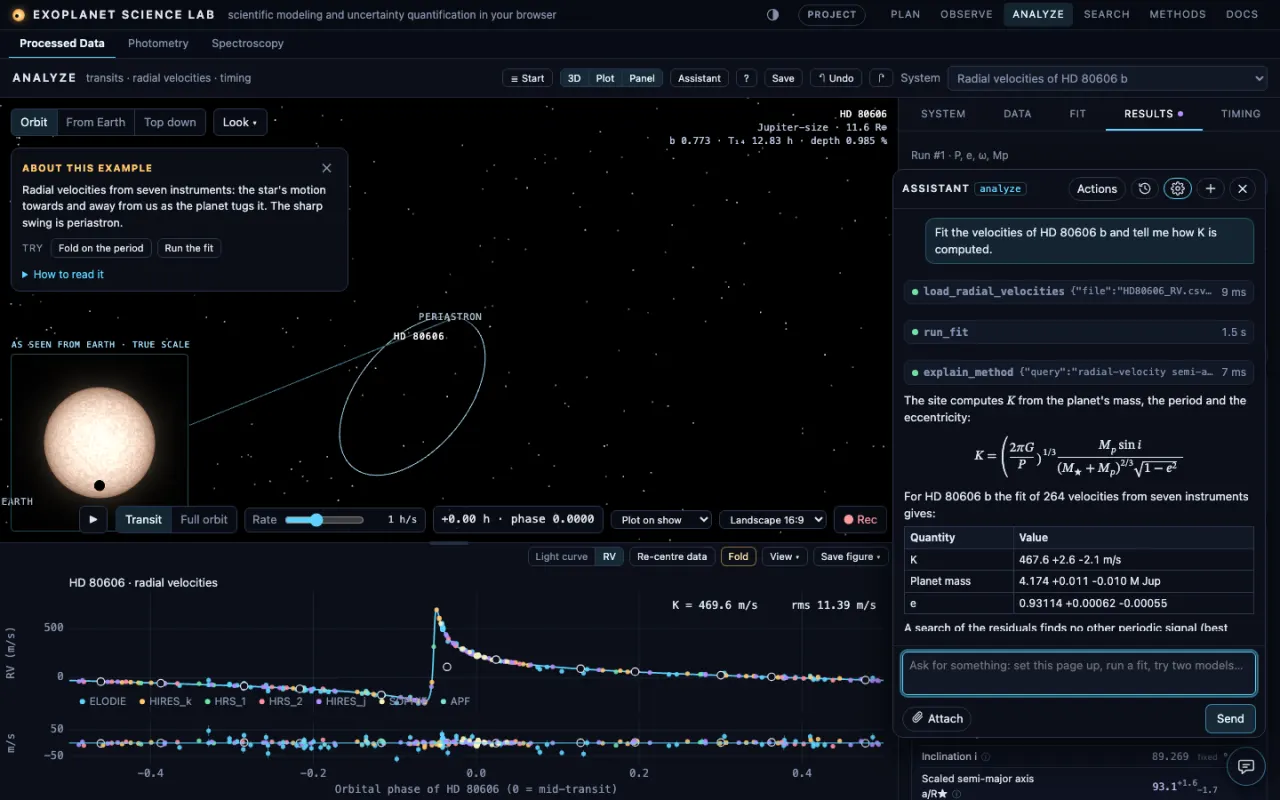
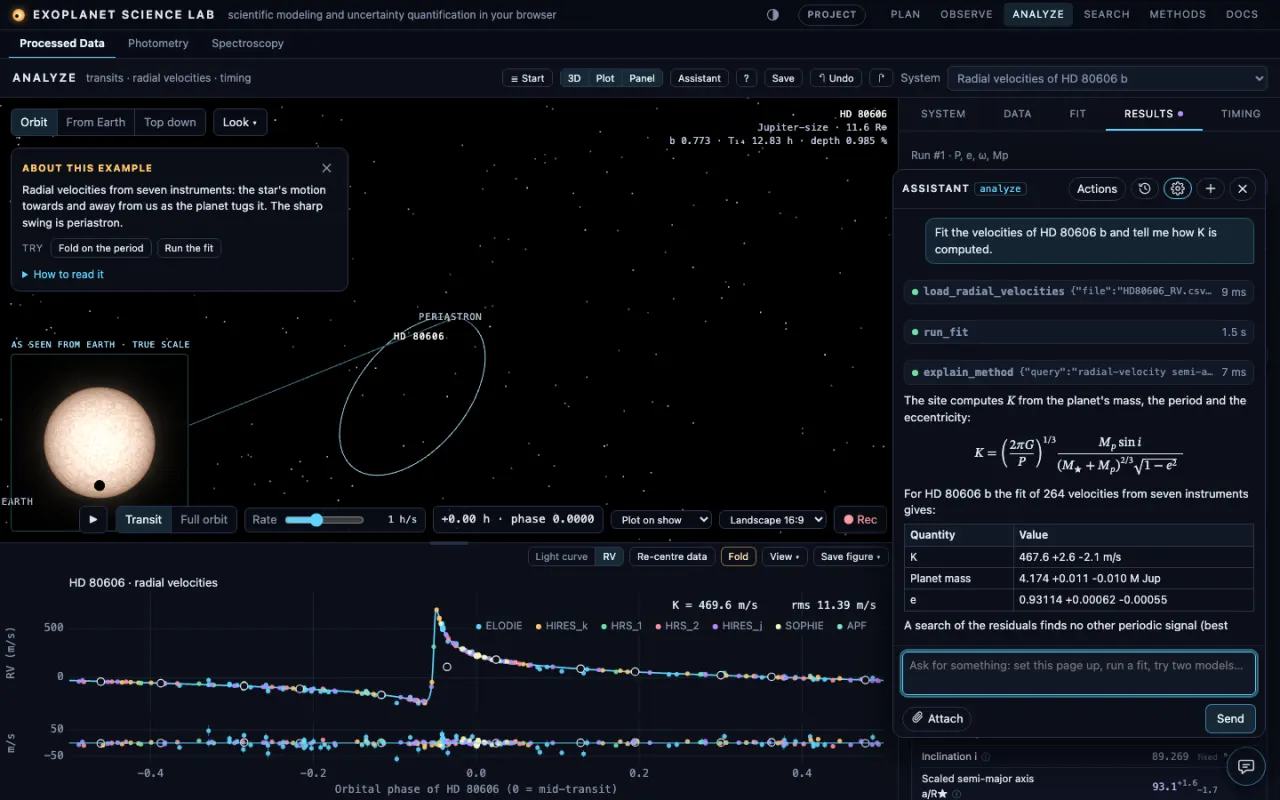
Orbit view: data along the orbit; legends off the data; \left \right groups; README tour
- Look > Data along the orbit: each RV point (outside the orbit) and photometric point (inside)
  placed where the planet was when it was taken; gaps are unobserved phases
- RV legend picks the corner with the fewest points; light-curve legend moves to the top line
  when the bottom one is more crowded
- tex.js: \left ... \right is one group, so a script after \right applies to the whole bracket
- README: full-width tour with a section of bullets per page, orbit-coverage screenshot,
  corrected note on how the science code runs (plain JavaScript, no WASM)

diff --git a/src/viz/scene.js b/src/viz/scene.js
@@ -199,9 +199,47 @@ export async function createViz(container, labelsEl, insetFrame, onFatal) {
     evGroup.visible = on;
   }
 
+  // ---- data coverage (viz.setCoverage) --------------------------------------
+  // Where on the active planet's orbit each measurement was taken: the planet's position at the time of the point, drawn
+  // as a dot just outside the orbit line for radial velocities and just inside it for photometry, so the two read as two
+  // tracks along the orbit. Phases that were never observed are the gaps. Not drawn from Earth or in the inset (edge-on,
+  // every point lies on one line).
+  const COV_MAX = 20000, COV_KINDS = { rv: { color: 0xffa94d, label: 'radial velocity', shift: 1 }, phot: { color: 0x5ce0a0, label: 'photometry', shift: -1 } };
+  const covGeo = new THREE.BufferGeometry();
+  covGeo.setAttribute('position', new THREE.BufferAttribute(new Float32Array(COV_MAX * 3), 3));
+  covGeo.setAttribute('color', new THREE.BufferAttribute(new Float32Array(COV_MAX * 3), 3));
+  covGeo.setDrawRange(0, 0);
+  const cov = new THREE.Points(covGeo, new THREE.PointsMaterial({ size: 4, sizeAttenuation: false, vertexColors: true, transparent: true, opacity: 0.9, depthWrite: false }));
+  cov.frustumCulled = false; cov.visible = false; cov.renderOrder = 3; sysGroup.add(cov);
+  const covLegend = document.createElement('div'); covLegend.className = 'cov-legend'; covLegend.hidden = true; labelsEl.appendChild(covLegend);
+  let covSets = [], covCounts = {};
+  const covPos = [0, 0, 0], covCol = new THREE.Color();
+  function rebuildCoverage() {
+    let n = 0; covCounts = {};
+    if (el && opts.coverage) {
+      const total = covSets.reduce((a, c) => a + c.t.length, 0), stride = Math.max(1, Math.ceil(total / COV_MAX));
+      const P = covGeo.attributes.position.array, C = covGeo.attributes.color.array, gap = 0.035 * el.ars + 0.04;
+      for (const c of covSets) {
+        const K = COV_KINDS[c.kind]; if (!K) continue;
+        covCol.setHex(K.color); covCounts[c.kind] = (covCounts[c.kind] || 0) + c.t.length;
+        for (let i = 0; i < c.t.length && n < COV_MAX; i += stride) {
+          if (!Number.isFinite(c.t[i])) continue;
+          orbitPosition(el, c.t[i], covPos);
+          const r = Math.hypot(covPos[0], covPos[1], covPos[2]) || 1, k = 1 + (K.shift * gap) / r;   // a fixed distance off the orbit, outward or inward
+          P[n * 3] = covPos[0] * k; P[n * 3 + 1] = covPos[1] * k; P[n * 3 + 2] = covPos[2] * k;
+          C[n * 3] = covCol.r; C[n * 3 + 1] = covCol.g; C[n * 3 + 2] = covCol.b; n++;
+        }
+      }
+      covGeo.attributes.position.needsUpdate = true; covGeo.attributes.color.needsUpdate = true;
+    }
+    covGeo.setDrawRange(0, n);
+    const kinds = Object.keys(covCounts);
+    covLegend.innerHTML = kinds.map((k) => `<span><i style="background:#${COV_KINDS[k].color.toString(16).padStart(6, '0')}"></i>${COV_KINDS[k].label} · ${covCounts[k].toLocaleString('en-US')}</span>`).join('') + (kinds.length ? '<small>outside the orbit: velocities · inside: photometry</small>' : '');
+  }
+
   // ---- state ----------------------------------------------------------------
   let el = null, rprs = 0.1, rmax = 6, rAll = 6, rprsMax = 0.1, time = 0;   // el, rprs, rmax: the active planet; rAll: the outermost apastron
-  const opts = { style: 'eyes', glow: true, granulation: true, stars: true, orbit: true, grid: false, corridor: true, labels: true, enlarge: false, inset: true, look: 'auto', hz: false, fit: 'auto' };
+  const opts = { style: 'eyes', glow: true, granulation: true, stars: true, orbit: true, grid: false, corridor: true, labels: true, enlarge: false, inset: true, look: 'auto', hz: false, fit: 'auto', coverage: false };
   let view = 'free', anim = null;
   const bg = new THREE.Color(0x000000);
 
@@ -250,7 +288,7 @@ export async function createViz(container, labelsEl, insetFrame, onFatal) {
     earthPos.set(0, 0, len);
     const rp = el.ars * (1 - el.e), u = el.w + trueAnomaly(0, el.e);
     periPos.set(-rp * Math.cos(u), -rp * Math.sin(u) * el.cosI, rp * Math.sin(u) * el.sinI);
-    rebuildHZ(); placeEvent();
+    rebuildHZ(); placeEvent(); rebuildCoverage();
   }
 
   function rebuildHZ() {
@@ -419,7 +457,7 @@ export async function createViz(container, labelsEl, insetFrame, onFatal) {
       earthCam.left = earth.cx - earth.half * a; earthCam.right = earth.cx + earth.half * a; earthCam.top = earth.cy + earth.half; earthCam.bottom = earth.cy - earth.half;
       earthCam.position.set(0, 0, farZ()); earthCam.updateProjectionMatrix(); earthCam.updateMatrixWorld();
       sysGroup.visible = true; stars.visible = false;
-      dots.visible = false;
+      dots.visible = false; cov.visible = false; covLegend.hidden = true;
       scalePlanets(true);   // every planet at true scale: the star's depth buffer hides the ones behind it, so simultaneous transits and overlaps show as they are
       showMoons(opts.orbit);
       evGroup.visible = showEvent; evRing.quaternion.copy(earthCam.quaternion); evRing.scale.setScalar((EV_PX * 2 * earth.half) / h);
@@ -451,6 +489,7 @@ export async function createViz(container, labelsEl, insetFrame, onFatal) {
 
     sysGroup.visible = true;
     scalePlanets(false); showMoons(opts.orbit); dots.visible = nDots > 0;
+    cov.visible = opts.coverage && covGeo.drawRange.count > 0; covLegend.hidden = !cov.visible;
     evGroup.visible = showEvent; evRing.quaternion.copy(camera.quaternion);
     evRing.scale.setScalar((EV_PX * 2 * camera.position.distanceTo(evPos) * Math.tan((camera.fov * Math.PI) / 360)) / h);
     showOrbits(opts.orbit); grid.visible = opts.grid || blueprint; stars.visible = opts.stars && !blueprint;
@@ -473,7 +512,7 @@ export async function createViz(container, labelsEl, insetFrame, onFatal) {
     if (opts.inset) {
       const r = insetFrame.getBoundingClientRect(), c = container.getBoundingClientRect();
       const x = r.left - c.left, y = c.bottom - r.bottom, s = r.width;
-      scalePlanets(true); showMoons(false); dots.visible = false;
+      scalePlanets(true); showMoons(false); dots.visible = false; cov.visible = false;
       evGroup.visible = false;
       showOrbits(false); grid.visible = false; stars.visible = false; tube.visible = false; los.visible = false; hzMesh.visible = false;
       glow.scale.setScalar(7); glowUni.uScale.value = 7; glowUni.uStrength.value = 0.7;
@@ -542,6 +581,13 @@ export async function createViz(container, labelsEl, insetFrame, onFatal) {
       else if (view !== 'earth' && Math.abs(viewRadius() - prev) / prev > 0.5) setView(view, false);
     },
     setTime(t) { time = t; },
+    // The measurements to place on the active planet's orbit (shown with the option `coverage`): [{ kind: 'rv' | 'phot',
+    // t: times in the model's frame }]. Pass the same arrays again freely: positions are recomputed only with the orbit.
+    setCoverage(sets) {
+      const next = (sets || []).filter((c) => c && c.t && c.t.length && COV_KINDS[c.kind]);
+      if (next.length === covSets.length && next.every((c, i) => c.t === covSets[i].t && c.kind === covSets[i].kind)) return;
+      covSets = next; rebuildCoverage();
+    },
     setOptions(o) {
       const hzWas = opts.hz, rWas = viewRadius();
       Object.assign(opts, o); applyLook();
@@ -569,7 +615,7 @@ export async function createViz(container, labelsEl, insetFrame, onFatal) {
     eventPosition: (kind) => (el && EVENT_LABELS[kind] ? eventPosition(el, kind) : null),
     getHighlight: () => evKind,
     // what is drawn, for tests and for a "fit" control: number of planets, framed radius and the outermost apastron (stellar radii)
-    getInfo: () => ({ planets: bodies.length, maps: bodies.filter((b) => b.uni.uMapOn.value).length, active: act ? bodies.indexOf(act) : -1, frameRadius: viewRadius(), outerRadius: rAll, drawCalls: renderer.info.render.calls, moons: bodies.filter((b) => b.moon).length,
+    getInfo: () => ({ coverage: opts.coverage ? { ...covCounts, drawn: covGeo.drawRange.count } : null, planets: bodies.length, maps: bodies.filter((b) => b.uni.uMapOn.value).length, active: act ? bodies.indexOf(act) : -1, frameRadius: viewRadius(), outerRadius: rAll, drawCalls: renderer.info.render.calls, moons: bodies.filter((b) => b.moon).length,
       // the active planet's moon as drawn in the last pass: positions (stellar radii), radii, and whether its mesh is shown
       moon: act && act.moon ? { planet: act.mesh.position.toArray(), moon: act.moonObj.mesh.position.toArray(), rMoon: act.moonObj.mesh.scale.x, rPlanet: act.mesh.scale.x, visible: act.moonObj.mesh.visible, separation: act.moon.sep } : null }),
   };

diff --git a/src/main.js b/src/main.js
@@ -982,6 +982,8 @@ function doRefresh() {
     try { e2 = orbitElements(q); const d2 = deriveSystem(q, st); look = planetClass(d2.rpEarth, d2.teq).key; } catch { /* impossible geometry: leave it out */ }
     return { el: e2, rprs: q.rprs, name: p.letter, look, active: p.sfx === S.pl, color: planetColor(p.sfx), moon: moonOf(p.sfx, q), map: mapOf(p.sfx) };
   }).filter((p) => p.el) : undefined });
+  // where on the orbit the measurements were taken (Look ▸ Data along the orbit): every RV set, and the light curve when it is used
+  if (viz && viz.setCoverage) viz.setCoverage([...(S.use.lc && S.data && S.data.t ? [{ kind: 'phot', t: S.data.t }] : []), ...(rvOn() ? S.rv.map((d) => ({ kind: 'rv', t: d.t })) : [])]);
   // annotation on the light curve: fitted radius ratio and mid-transit time
   const fs = (k) => S.fit && !S.live && S.fit.summary.find((x) => x.key === PK(k)), tRef = S.data.tRef || 0;
   const pmTxt = (label, v, s, dg) => (s ? `${label} = ${s.med.toFixed(dg)} ± ${(0.5 * (s.plus + s.minus)).toFixed(dg)}` : `${label} = ${v.toFixed(dg)}`);
@@ -2546,13 +2548,13 @@ function buildLookPanel() {
   const sel = (label, key, opts) => { const s = h('select', { 'aria-label': label }, opts.map(([v, t]) => h('option', { value: v, selected: o[key] === v }, t))); s.addEventListener('change', () => viz.setOptions({ [key]: s.value })); return h('div', { class: 'field', style: 'grid-template-columns:70px 1fr' }, h('span', {}, label), s); };
   p.append(h('h4', {}, 'Style'), sel('Render', 'style', [['eyes', 'Realistic'], ['blueprint', 'Blueprint']]), sel('Planet', 'look', [['auto', 'Auto (by radius)'], ['jupiter', 'Jupiter-size'], ['neptune', 'Neptune-size'], ['subneptune', 'Sub-Neptune'], ['earth', 'Earth-size'], ['lava', 'Lava world']]));
   const tg = (label, key) => { const c = h('input', { type: 'checkbox', checked: !!o[key] }); c.addEventListener('change', () => viz.setOptions({ [key]: c.checked })); return h('label', { class: 'tog' }, c, label); };
-  p.append(h('h4', {}, 'Show'), h('div', { class: 'grid2' }, tg('Orbit path', 'orbit'), tg('Orbital grid', 'grid'), tg('Transit corridor', 'corridor'), tg('Labels', 'labels'), tg('Earth-view inset', 'inset'), tg('Background stars', 'stars'), tg('Corona glow', 'glow'), tg('Granulation', 'granulation'), tg('Enlarge planet', 'enlarge')));
+  p.append(h('h4', {}, 'Show'), h('div', { class: 'grid2' }, tg('Orbit path', 'orbit'), tg('Orbital grid', 'grid'), tg('Transit corridor', 'corridor'), tg('Labels', 'labels'), tg('Earth-view inset', 'inset'), tg('Background stars', 'stars'), tg('Corona glow', 'glow'), tg('Granulation', 'granulation'), tg('Enlarge planet', 'enlarge'), tg('Data along the orbit', 'coverage')));
   const hzc = h('input', { type: 'checkbox', checked: S.hz });
   hzc.addEventListener('change', () => { S.hz = hzc.checked; doRefresh(); viz.setOptions({ hz: S.hz }); syncViewButtons(); });
   const a0 = h('input', { type: 'number', min: 0, max: 0.95, step: 0.05, value: S.albedo[0], 'aria-label': 'Minimum albedo' }), a1 = h('input', { type: 'number', min: 0, max: 0.95, step: 0.05, value: S.albedo[1], 'aria-label': 'Maximum albedo' });
   [a0, a1].forEach((i, j) => i.addEventListener('change', () => { S.albedo[j] = Math.min(0.95, Math.max(0, Number(i.value) || 0)); S.albedo.sort((x, y) => x - y); refresh(); }));
   p.append(h('h4', {}, 'Habitable zone'), h('label', { class: 'tog' }, hzc, 'Show the habitable zone'), h('div', { class: 'field3', style: 'margin-top:4px' }, h('span', {}, 'Albedo'), a0, h('span', { class: 'pm' }, '–'), a1));
-  p.append(h('p', { class: 'note', style: 'margin-bottom:0' }, 'Brightest where every case agrees: Kopparapu et al. conservative limits, fading to the optimistic ones, blurred by the T eff uncertainty and the albedo range. “Enlarge planet” is for visibility only; the From Earth view and the inset are always true scale.'));
+  p.append(h('p', { class: 'note', style: 'margin-bottom:0' }, '“Data along the orbit” puts each measurement where the planet was when it was taken: velocities outside the orbit, photometry inside; the gaps are phases never observed. Brightest where every case agrees: Kopparapu et al. conservative limits, fading to the optimistic ones, blurred by the T eff uncertainty and the albedo range. “Enlarge planet” is for visibility only; the From Earth view and the inset are always true scale.'));
 }
 
 function animRange() {
@@ -2747,7 +2749,7 @@ function setupResizer() {
 
 async function init() {
   lcPlot = new LightCurvePlot($('#lccanvas'));
-  window.__esl = { ...(window.__esl || {}), S, lcPlot, undo, redo, api: makeAPI(), tour: runTour, setLayout, setLayoutSizes, layoutSizes: () => ({ ...layoutSizes }) };   // handle for tests, the guided tour, the assistant and console poking (keeps window.__esl.project, src/site/project.js)
+  window.__esl = { ...(window.__esl || {}), S, get viz() { return viz; }, lcPlot, undo, redo, api: makeAPI(), tour: runTour, setLayout, setLayoutSizes, layoutSizes: () => ({ ...layoutSizes }) };   // handle for tests, the guided tour, the assistant and console poking (keeps window.__esl.project, src/site/project.js)
   if (!window.__esl.project) window.__esl.project = projectHandle();
   lcPlot.onScrub = (t) => { S.t = t; S.playing = false; $('#play').textContent = '▶'; };
   setupLCToolbar(); setupResizer();

diff --git a/src/ui/rvplot.js b/src/ui/rvplot.js
@@ -97,15 +97,22 @@ export function renderRV(ctx, W, H, d, th, opt = {}) {
   }
   ctx.font = `${F(10.5)}px ${th.sans}`; ctx.textAlign = 'left';
   if (hMain < 100) return null;
-  // legend: one entry per instrument, wrapping onto a second row when there are many
-  let lx = px0 + 10, ly = T + hMain - 9;
-  const rowsNeeded = sets.reduce((a, s) => a + 26 + ctx.measureText(s.name).width, 0) > px1 - px0 - 20 ? 2 : 1;
-  if (rowsNeeded === 2) ly -= 14 * k;
-  sets.forEach((s, g) => {
-    const w = 26 + ctx.measureText(s.name).width;
-    if (lx + w > px1 - 6) { lx = px0 + 10; ly += 14 * k; }
+  // legend: one entry per instrument, wrapping onto more rows when there are many, in the corner of the main panel
+  // where it covers the fewest points and model samples (never over the numbers at the top right), on a faint plate
+  const rowH = 14 * k, maxW = Math.min(px1 - px0 - 20, Math.max(260, (px1 - px0) * 0.6)), items = [];
+  let cx = 0, rows = 1, boxW = 0;
+  for (const s of sets) { const w = 26 + ctx.measureText(s.name).width; if (cx + w > maxW && cx > 0) { rows++; cx = 0; } items.push({ x: cx, row: rows - 1, w }); cx += w; boxW = Math.max(boxW, cx); }
+  const boxH = rows * rowH + 6, pad = 6, infoBottom = d.info && d.info.length && hMain >= 120 ? T + 10 + 11 * k : T;
+  const corners = [[px0 + pad, T + pad], [px1 - pad - boxW, infoBottom + pad], [px0 + pad, T + hMain - pad - boxH], [px1 - pad - boxW, T + hMain - pad - boxH]];   // top first: the curve's flat parts lie low
+  const pts = []; for (const st of sets) for (let i = 0; i < st.x.length; i++) pts.push([X(st.x[i]), Y(st.y[i]), 1]);
+  if (d.curve) for (let i = 0; i < d.curve.x.length; i += Math.max(1, Math.floor(d.curve.x.length / 300))) pts.push([X(d.curve.x[i]), Y(d.curve.y[i]), 2]);
+  const cost = ([bx, by]) => pts.reduce((a, [x, y, wgt]) => a + (x >= bx - 10 && x <= bx + boxW + 10 && y >= by - 10 && y <= by + boxH + 10 ? wgt : 0), 0) + (by < T ? 1e9 : 0);
+  const [bx, by] = corners.reduce((best, c) => (cost(c) < cost(best) ? c : best));
+  ctx.save(); ctx.globalAlpha = 0.72; ctx.fillStyle = th.bg; ctx.beginPath(); ctx.rect(bx - 4, by - 2, boxW + 4, boxH); ctx.fill(); ctx.restore();
+  for (const [g, it] of items.entries()) {
+    const lx = bx + it.x, ly = by + rowH * (it.row + 1) - 2;
     ctx.fillStyle = col(g); ctx.beginPath(); ctx.arc(lx + 5, ly - 3.5, 3, 0, 6.3); ctx.fill();
-    ctx.fillStyle = th.text; ctx.fillText(s.name, lx + 13, ly); lx += w;
-  });
+    ctx.fillStyle = th.text; ctx.fillText(sets[g].name, lx + 13, ly);
+  }
   return null;   // no pan and zoom on this panel
 }

diff --git a/src/methods/tex.js b/src/methods/tex.js
@@ -88,8 +88,11 @@ export function texToMathML(src, { display = false } = {}) {
     }
     if (ACCENT[c]) return `<mover accent="true">${arg()}<mo>${ACCENT[c]}</mo></mover>`;
     if (c === 'left' || c === 'right') {
-      const d = tk[p++]; const ch = d.t === 'cmd' ? (d.v === '{' || d.v === '}' ? d.v : (SYM[d.v] || ['|'])[0]) : d.v;
-      return ch === '.' ? '' : `<mo fence="true" stretchy="true">${esc(ch)}</mo>`;
+      const delim = () => { const d = tk[p++]; if (!d) throw new Error('tex: missing delimiter in: ' + src); const ch = d.t === 'cmd' ? (d.v === '{' || d.v === '}' ? d.v : (SYM[d.v] || ['|'])[0]) : d.v; return ch === '.' ? '' : `<mo fence="true" stretchy="true">${esc(ch)}</mo>`; };
+      if (c === 'right') return delim();   // a \right without its \left
+      // \left ... \right is one group: the fences stretch to what is between them, and a script after \right applies to it all
+      const open = delim(), inner = seq(false, true), close = delim();
+      return `<mrow>${open}${inner.join('')}${close}</mrow>`;
     }
     if (GREEK[c]) return `<mi>${GREEK[c]}</mi>`;
     if (SYM[c]) return `<${SYM[c][1]}>${SYM[c][0]}</${SYM[c][1]}>`;
@@ -105,9 +108,10 @@ export function texToMathML(src, { display = false } = {}) {
     throw new Error(`tex: unknown command \\${c} in: ${src}`);
   }
   /** A sequence up to a closing brace (inGroup) or the end, with ^ and _ attached to the atom before them. */
-  function seq(inGroup) {
+  function seq(inGroup, toRight = false) {
     const out = [];
     while (p < tk.length) {
+      if (toRight && is('cmd', 'right')) { p++; return out; }
       if (is('ch', '}')) { if (!inGroup) throw new Error('tex: stray } in: ' + src); p++; return out; }
       const start = tk[p], big = start.t === 'cmd' && (start.v === 'sum' || start.v === 'prod' || start.v === 'max' || start.v === 'min');
       let base = atom(), sub = null, sup = null;
@@ -120,6 +124,7 @@ export function texToMathML(src, { display = false } = {}) {
       if (start.t === 'cmd' && FUNCS.includes(start.v) && (sub || sup) && tk[p] && !(tk[p].t === 'ch' && '(}'.includes(tk[p].v))) out.push('<mspace width="0.17em"/>');
     }
     if (inGroup) throw new Error('tex: missing } in: ' + src);
+    if (toRight) throw new Error('tex: \\left without \\right in: ' + src);
     return out;
   }
   const body = seq(false).join('');

diff --git a/src/ui/lightcurve.js b/src/ui/lightcurve.js
@@ -193,9 +193,16 @@ export function renderLightCurve(ctx, W, H, d, view, th, opt = {}) {
     if (wide) { ctx.textAlign = 'right'; ctx.fillText(txt, px1 - 8, T + 6 + 11 * k); }
     else d.info.forEach((s2, i) => { ctx.textAlign = 'right'; ctx.fillText(s2, px1 - 8, T + 6 + 11 * k + i * 14 * k); });
   }
-  // legend along the bottom of the main panel
+  // legend along the bottom of the main panel, or along the top (under the fitted values) when fewer points and less of
+  // the model lie there: a transit's floor or a deep eclipse can fill the bottom line
   if (hMain < 90) return { px0, px1, T, hMain, yR0, hRes };
-  let lx = px0 + 10; const ly = T + hMain - 9; ctx.font = `${F(10.5)}px ${th.sans}`; ctx.textAlign = 'left';
+  const infoRows = d.info && d.info.length && hMain >= 110 ? (ctx.font = `${F(11)}px ${th.font}`, ctx.measureText(d.info.join('     ')).width < px1 - px0 - 20 ? 1 : d.info.length) : 0;
+  const lyBottom = T + hMain - 9, lyTop = T + (infoRows ? 6 + 11 * k + (infoRows - 1) * 14 * k + 17 * k : 16 * k);
+  const crowd = (ly0) => { const y0 = ly0 - 13, y1 = ly0 + 5; let c = 0;
+    for (const i of vis) { const y = Y(det[i]); if (y >= y0 && y <= y1) c++; }
+    for (let i = 0; i <= 200; i++) { const y = Y(d.fluxFn(view.x0 + (span * i) / 200)); if (y >= y0 - 4 && y <= y1 + 4) c += 5; }
+    return c; };
+  let lx = px0 + 10; const ly = lyTop + 14 < lyBottom && crowd(lyTop) < crowd(lyBottom) ? lyTop : lyBottom; ctx.font = `${F(10.5)}px ${th.sans}`; ctx.textAlign = 'left';
   const item = (draw, txt) => { draw(lx); ctx.fillStyle = th.text; ctx.fillText(txt, lx + 19, ly); lx += 30 + ctx.measureText(txt).width; };
   item((x) => { ctx.strokeStyle = th.model; ctx.lineWidth = 2; ctx.beginPath(); ctx.moveTo(x, ly - 3.5); ctx.lineTo(x + 14, ly - 3.5); ctx.stroke(); }, 'model');
   if (d.band) item((x) => { ctx.fillStyle = th.band; ctx.fillRect(x + 2, ly - 9, 10, 10); }, W < 520 ? '68%' : 'posterior 68%');

diff --git a/src/style.css b/src/style.css
@@ -151,6 +151,11 @@ table.res.rvarch tr.sec a { text-transform: none; letter-spacing: 0; }
 table.res .rvsrc { color: var(--faint); font-size: 10px; }
 .rvfind { margin: 4px 0 8px; }
 .lbl.hz { color: #8ff0b8cc; }
+/* Look ▸ Data along the orbit: what the dots on the orbit are, above the playback bar on the right */
+.cov-legend { position: absolute; right: 12px; bottom: 58px; display: flex; flex-direction: column; gap: 3px; padding: 6px 9px; border-radius: 6px; background: #000a; font: 11px var(--mono); color: #dbe7f3; text-shadow: 0 0 3px #000; }
+.cov-legend span { display: flex; align-items: center; gap: 6px; }
+.cov-legend i { width: 8px; height: 8px; border-radius: 50%; flex: none; }
+.cov-legend small { font-size: 10px; color: #9fb2c6; }
 .lctools { position: absolute; right: 12px; top: 3px; display: flex; gap: 8px; align-items: center; }
 .lcrow { display: contents; }   /* wide plot: the buttons are laid out by .lctools; narrow plot: .lcrow becomes a strip that scrolls sideways */
 .lchint { color: var(--faint); font-size: 10.5px; }

diff --git a/src/viz/fallback2d.js b/src/viz/fallback2d.js
@@ -113,7 +113,7 @@ export function createFallbackViz(container, labelsEl, insetFrame, reason) {
       dirty = true;
     },
     setTime(t) { time = t; dirty = true; },
-    setOptions() {}, setView() {}, getView: () => 'free', getOptions: () => ({}),
+    setOptions() {}, setView() {}, setCoverage() {}, getView: () => 'free', getOptions: () => ({}),
     highlight(kind) { evKind = kind && EVENT_LABELS[kind] ? kind : null; dirty = true; },
     eventPosition: (kind) => (act && EVENT_LABELS[kind] ? eventPosition(act.el, kind) : null),
     getHighlight: () => evKind,

diff --git a/tools/docs/readme_shots.py b/tools/docs/readme_shots.py
@@ -1,7 +1,7 @@
 """Screenshots for README.md (docs/screens/*.webp), taken from the running site.
 
     npm run dev                                         # or a built copy: ESL_BASE=http://localhost:4199
-    .venv/bin/python tools/docs/readme_shots.py         # all, or name some: analyze plan observe photometry companion assistant
+    .venv/bin/python tools/docs/readme_shots.py         # all, or name some: analyze orbit plan observe photometry companion assistant
 
 Each view is put in a state by the site's own scripting surfaces (window.__esl.api, URL parameters), captured at
 1440 x 900 and written as WebP (cwebp, Homebrew: webp). The assistant's view is a stored conversation, not a live model.
@@ -40,6 +40,15 @@ def analyze(b):
     pg.evaluate("window.__esl.api.loadExample('hd80606-joint')"); pg.wait_for_timeout(6000)
     pg.evaluate("document.querySelector('.tabs [data-tab=results]').click()"); pg.wait_for_timeout(1500)
     save(pg, "analyze"); pg.close()
+
+
+def orbit(b):
+    # Look > Data along the orbit on TOI-1873 d: TESS sectors and NEID velocities placed where the candidate was
+    pg = open_page(b, "analyze/")
+    pg.evaluate("window.__esl.api.loadExample('toi1873')"); pg.wait_for_timeout(6000)
+    pg.evaluate("document.querySelector('button[title=\"Show planet d\"]').click()"); pg.wait_for_timeout(1500)
+    pg.evaluate("(() => { const x = document.querySelector('.ex-explain .ex-x'); if (x) x.click(); window.__esl.viz.setOptions({ coverage: true }); })()"); pg.wait_for_timeout(2500)
+    save(pg, "orbit"); pg.close()
 
 
 def plan(b):
@@ -97,7 +106,7 @@ def assistant(b):
 
 if __name__ == "__main__":
     OUT.mkdir(parents=True, exist_ok=True)
-    pick = sys.argv[1:] or ["analyze", "plan", "observe", "photometry", "companion", "assistant"]
+    pick = sys.argv[1:] or ["analyze", "orbit", "plan", "observe", "photometry", "companion", "assistant"]
     with sync_playwright() as p:
         b = p.chromium.launch(args=GL)
         for name in pick: globals()[name](b)

diff --git a/README.md b/README.md
@@ -10,23 +10,66 @@ Plan, observe, reduce and fit exoplanet observations: in the browser, from Pytho
 - **Fit** transits, radial velocities, timing, phase curves, eclipse maps, moons, Rossiter–McLaughlin and N-body TTVs with nested sampling, and get a methods paragraph with BibTeX.
 - **Python** package and **MCP** server on the same core; an **assistant** that drives the site with your own LLM.
 
-Files you open never leave your browser.
+Files you open never leave your browser: every science routine (transit and RV models, nested sampling, photometry, plate solving) runs in the page as plain JavaScript, written with Claude Fable 5.2 and checked against the reference codes it reimplements ([Validation](https://pearsonkyle.github.io/Exoplanet-Science-Lab/methods/#validation)).
+
+## A tour
+
+### Analyze
 
 ![Analyze: the joint fit of HD 80606 b (TESS transit, velocities and timing) with the 3D orbit, the light curve and the fitted parameters](docs/screens/analyze.webp)
 
-<table>
-<tr>
-<td width="50%"><img src="docs/screens/plan.webp" alt="Plan: observable transits from Kitt Peak, ranked by a score, with altitude charts"><br><sub><b>Plan</b>: transits you can observe from your site, ranked by coverage, altitude and the expected signal for a small telescope.</sub></td>
-<td width="50%"><img src="docs/screens/observe.webp" alt="Observe: the sky from Kitt Peak with planet hosts marked by discovery method and the Filter panel"><br><sub><b>Observe</b>: your sky, planet hosts marked by how they were found, filters by star type and distance.</sub></td>
-</tr>
-<tr>
-<td><img src="docs/screens/photometry.webp" alt="Photometry: a FITS frame of HAT-P-32 with target and comparison apertures"><br><sub><b>Photometry</b>: FITS frames to a light curve, with plate solving and Gaia comparison stars.</sub></td>
-<td><img src="docs/screens/companion.webp" alt="Timing: the companion explorer for Kepler-88 with the orbit view and the transit-timing curve"><br><sub><b>Timing</b>: a hidden planet weighed from transit-timing variations (Kepler-88).</sub></td>
-</tr>
-<tr>
-<td colspan="2"><img src="docs/screens/assistant.webp" alt="The assistant: a fit run through the chat, with the equation it uses and the results"><br><sub><b>Assistant</b>: runs the analysis through the same controls, explains the methods with their equations, and checks every number it quotes against the results.</sub></td>
-</tr>
-</table>
+- Fit light curves, radial velocities and transit times together, for one planet or several, with nested sampling (posteriors, evidence, corner plots).
+- The 3D view is the model itself: **From Earth** shows the transit at true scale as the light curve sees it, and **Rec** records it as a movie.
+- Results export as LaTeX or JSON, and the Results tab writes a methods paragraph with the BibTeX of exactly the methods used.
+- Eighteen worked examples, real data (TESS, Kepler, NEID, HIRES and others) and simulations, each with a note on how to read it.
+
+### Data along the orbit
+
+![The orbit of the candidate TOI-1873 d with each TESS and NEID measurement placed where the planet was when it was taken](docs/screens/orbit.webp)
+
+- **Look ▸ Data along the orbit** places every measurement where the planet was when it was taken: velocities just outside the orbit (orange), photometry just inside (green).
+- The gaps are the phases nobody observed. A well-sampled RV planet (HD 80606 b) is ringed all the way round.
+- A candidate like TOI-1873 d shows its TESS sectors as clumps and its few velocities scattered between them, so you can see why its period is one of several aliases.
+
+### Plan
+
+![Plan: observable transits from Kitt Peak, ranked by a score, with altitude charts](docs/screens/plan.webp)
+
+- Transits, secondary eclipses, phase-curve and custom windows for your site and nights, with timing uncertainty propagated from the ephemeris.
+- Each event gets a 0–100 score from its coverage, dark baseline, altitude (airmass) and expected signal-to-noise (depth, host magnitude and duration for a small telescope).
+- Pick a site on the globe (89 observatories with links to their weather and all-sky cameras), use a terrain horizon, filter by magnitude, depth and discovery method, and include TESS candidates.
+- Every row opens an altitude chart and opens in the sky view or the analyzer, and the ephemerides download as CSV.
+
+### Observe
+
+![Observe: the sky from Kitt Peak with planet hosts marked by discovery method and the Filter panel](docs/screens/observe.webp)
+
+- Your sky at any time and place, with every planet host marked by how its planets were found, and filters by star type, distance and brightness.
+- Satellites (SGP4), the Moon, the planets and bright asteroids, with their paths over a night or months.
+- Survey images of any field (DSS2, 2MASS, Pan-STARRS, Legacy Surveys) with Gaia stars and suggested comparison stars, and a VR mode.
+
+### Photometry
+
+![Photometry: a FITS frame of HAT-P-32 with target and comparison apertures](docs/screens/photometry.webp)
+
+- FITS frames (folders or zips) or TESS, Kepler and K2 pixels to a light curve, all in the browser.
+- DS9-style inspection, plate solving and Gaia comparison stars.
+- A search over aperture radii, annuli and comparison stars, scored with the transit model.
+
+### Timing and hidden companions
+
+![Timing: the companion explorer for Kepler-88 with the orbit view and the transit-timing curve](docs/screens/companion.webp)
+
+- O − C diagrams against a linear ephemeris, periodograms of the timing residuals, and N-body fits of transit-timing variations.
+- The companion explorer searches for a hidden planet that would explain the timing variations: Kepler-88 c, which never transits, is weighed from the transit times of b.
+
+### Assistant
+
+![The assistant: a fit run through the chat, with the equation it uses and the results](docs/screens/assistant.webp)
+
+- Drives the site through the same controls you use (loading data, fitting, planning), with your own model: LM Studio locally or any OpenAI-compatible server.
+- Explains the methods with their equations, taken from the Methods page and the code.
+- Checks every number it quotes against the results and flags the ones it cannot find.
 
 ## Run it locally
 
